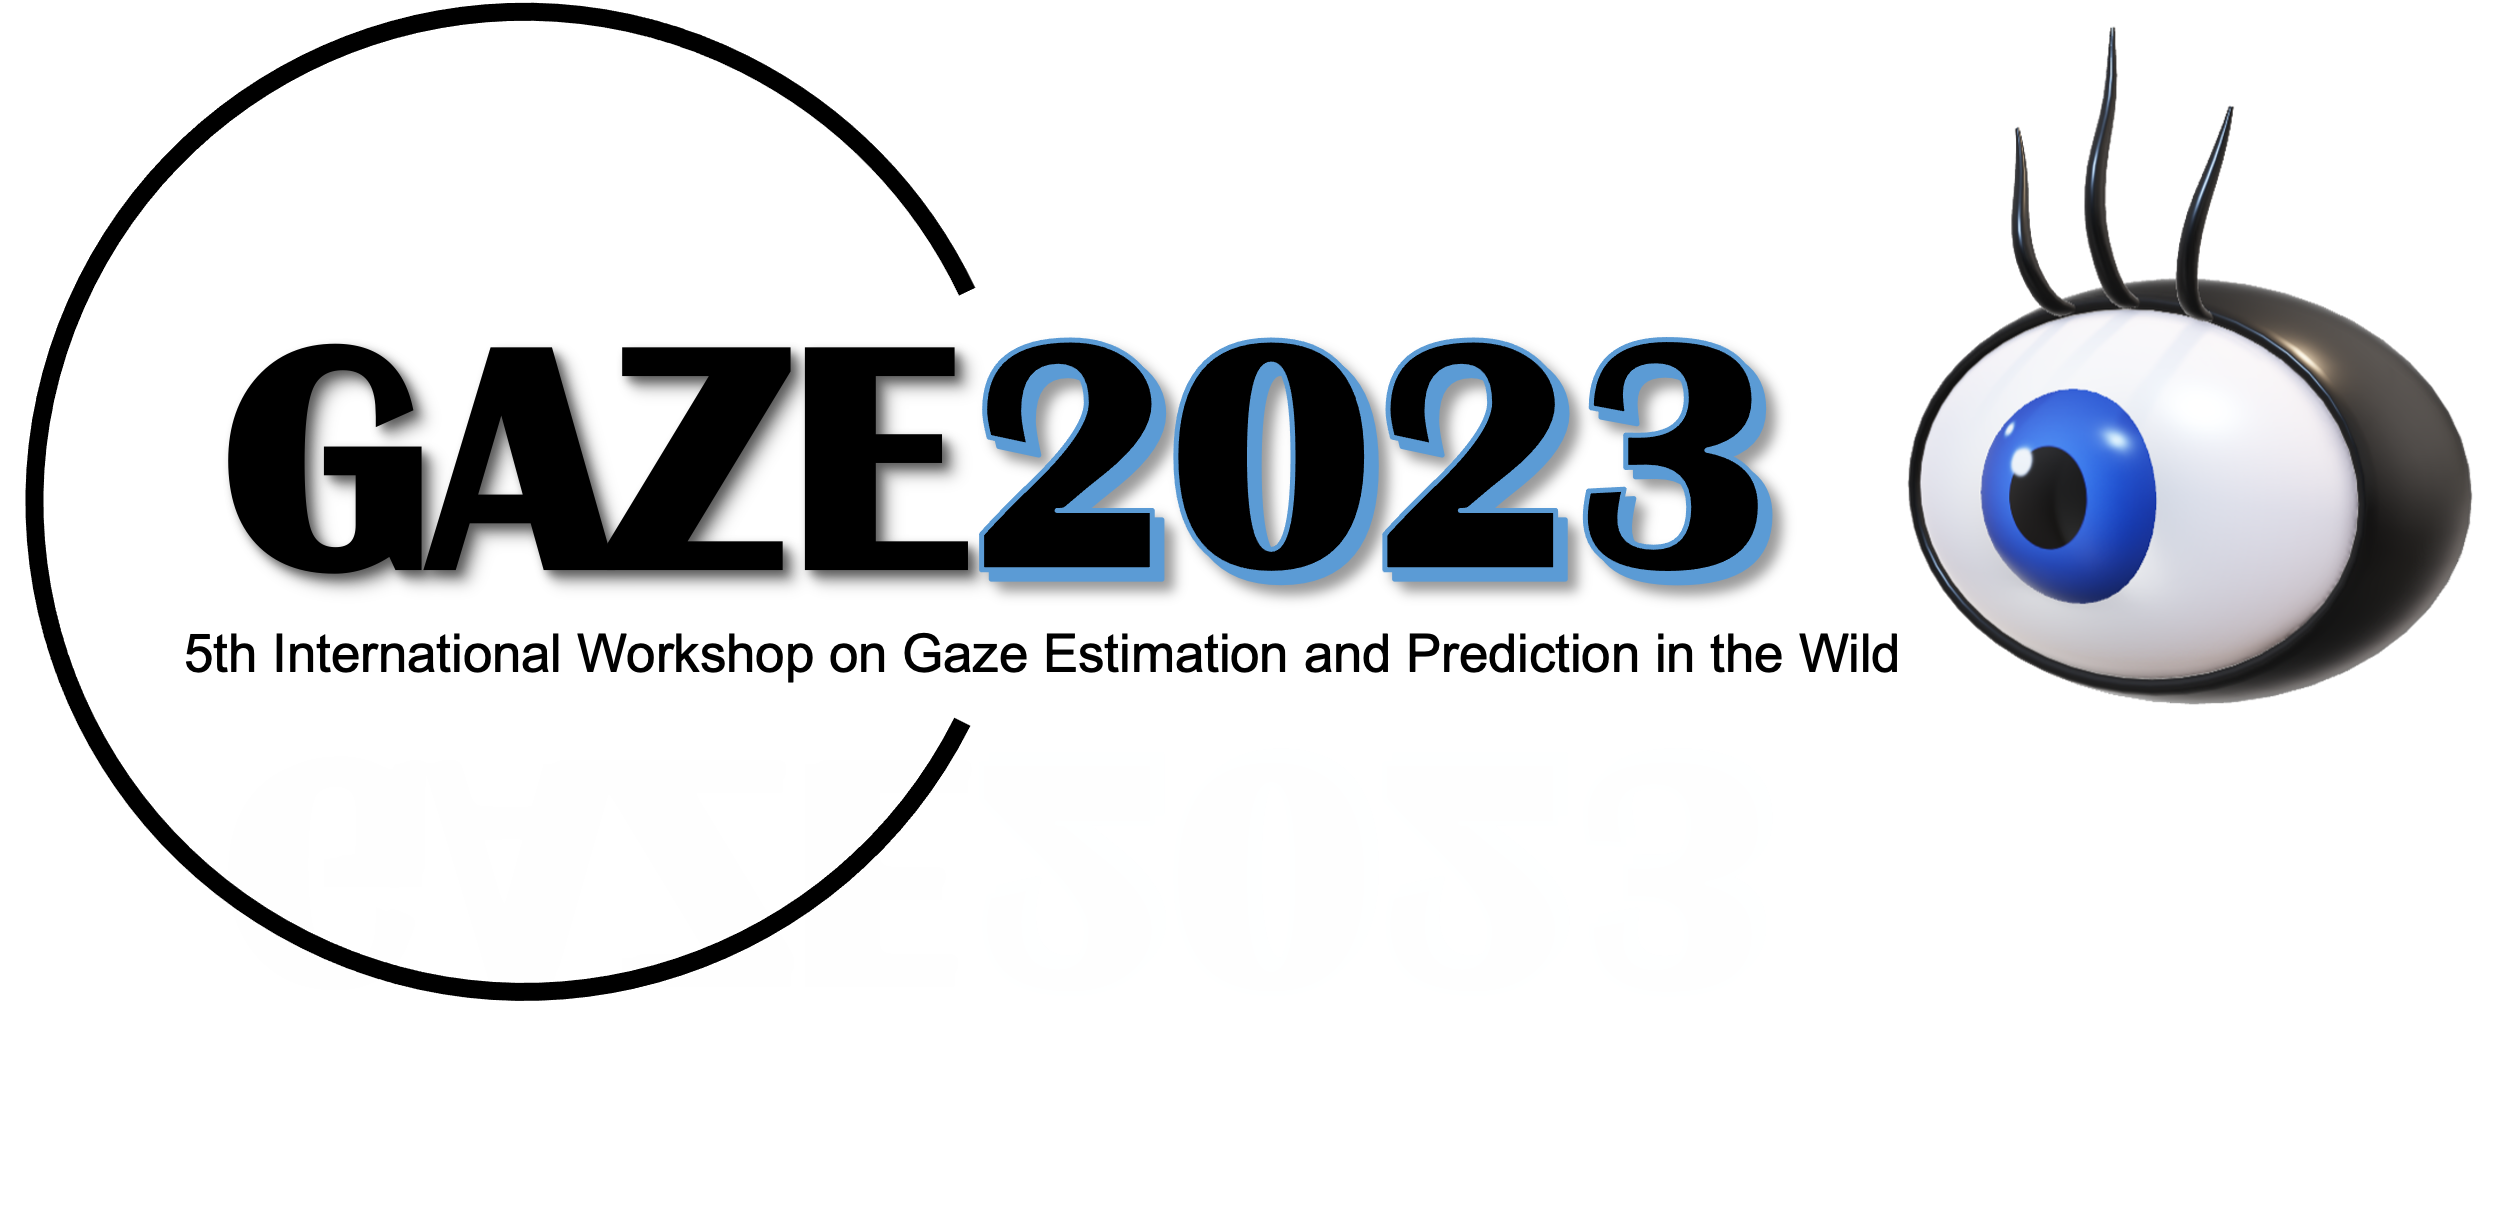
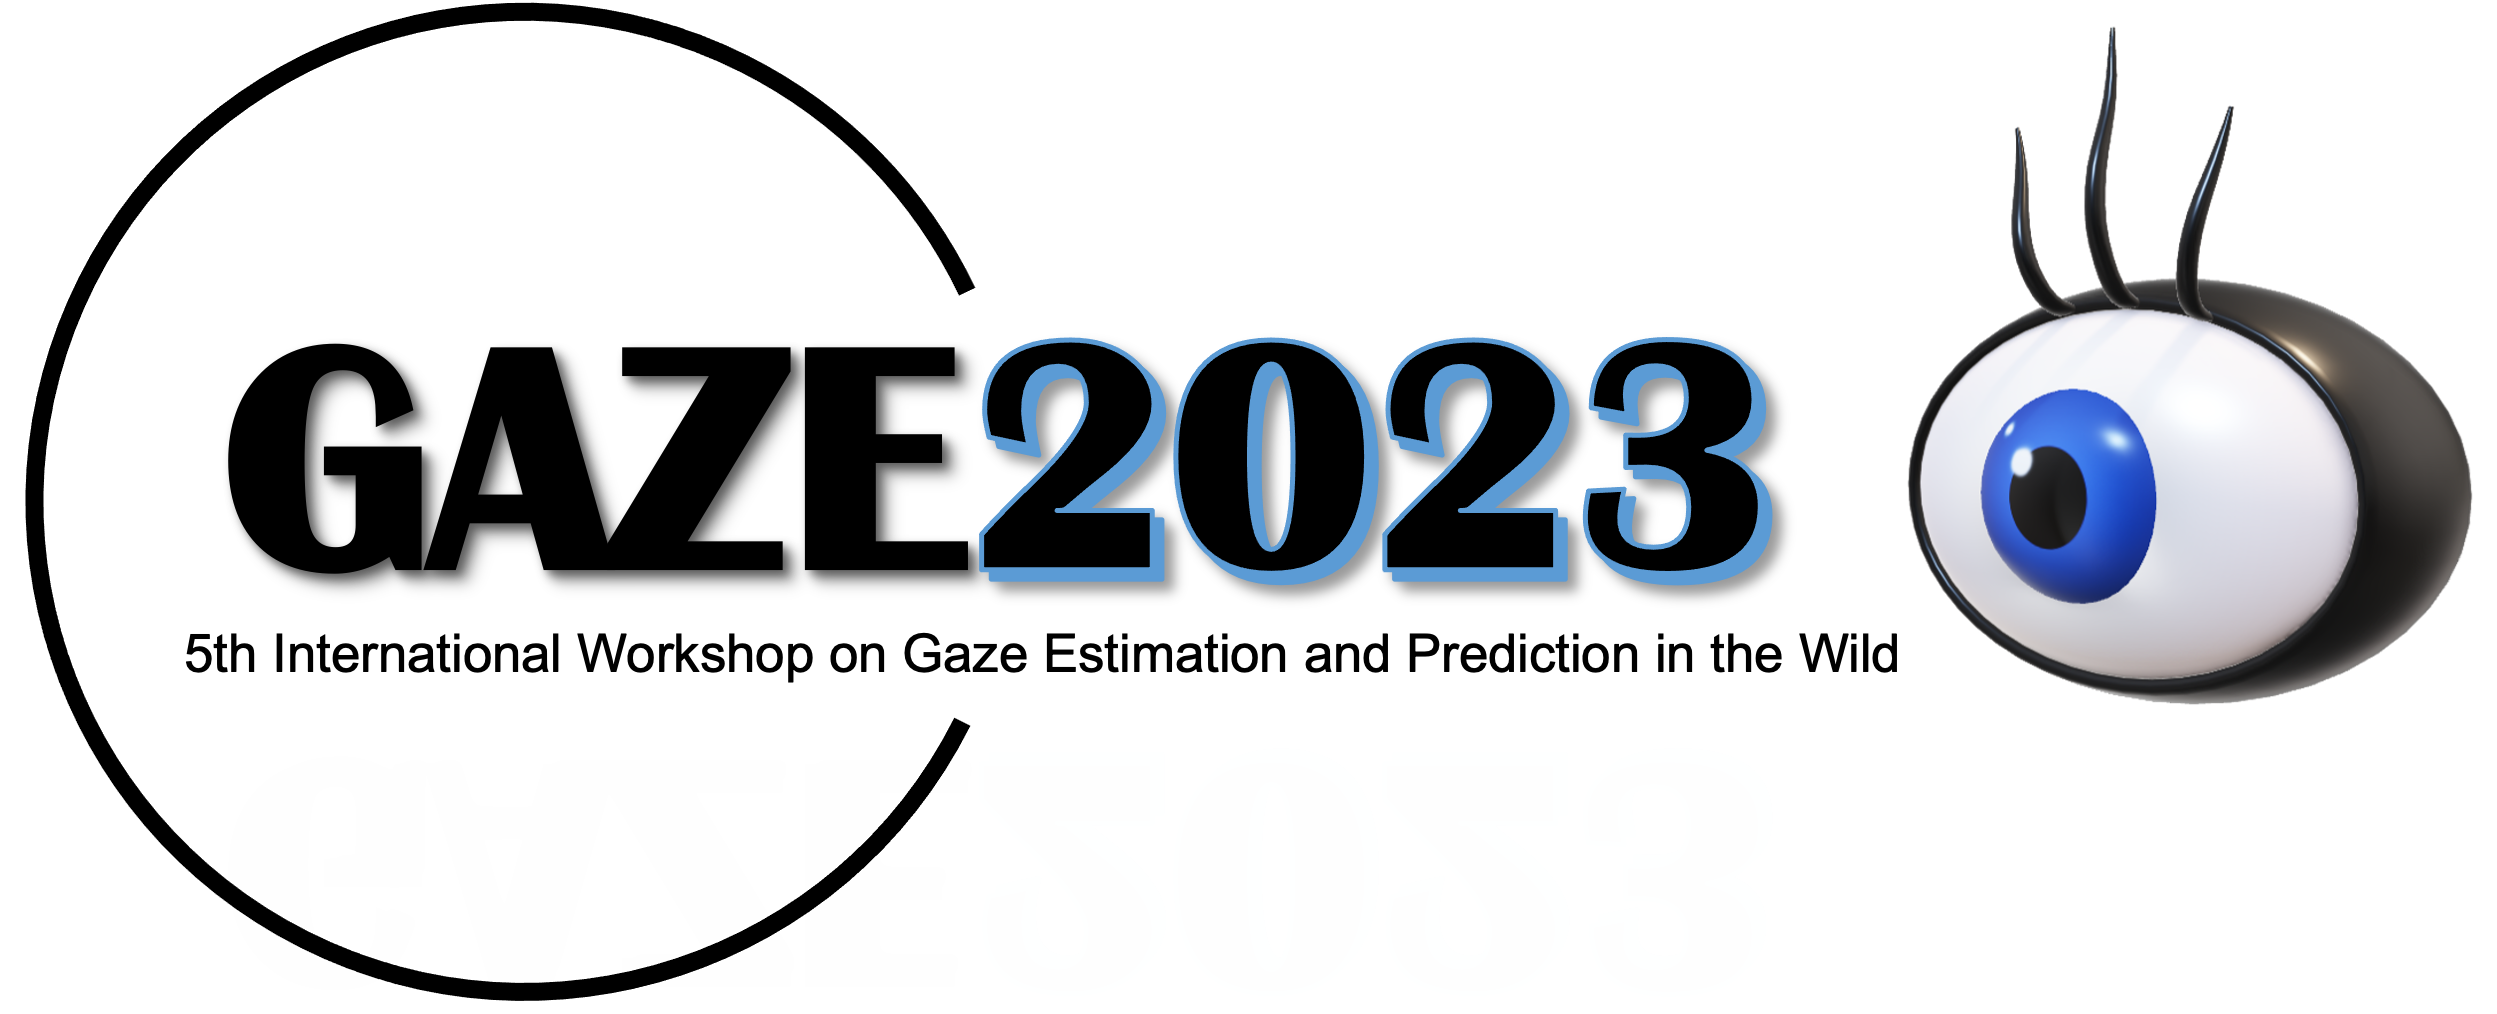
1

diff --git a/index.html b/index.html
@@ -235,7 +235,7 @@
           <h2>Invited Talk</h2>
           <ul class="media-list">
             <li class="media-entry">
-              <img class="media-img" src="images/gaze2023_low_res.png" alt="GAZE2023" />
+              <img class="media-img" src="images/gaze2023.png" alt="GAZE2023" />
               <div class="media-body">
                 <div class="media-title">
                   <strong>Invited poster and spotlight talk at <a href="https://gazeworkshop.github.io/2023/">CVPR GAZE2023 workshop</a>.</strong>
